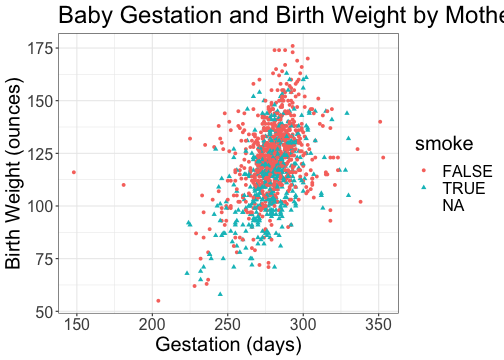
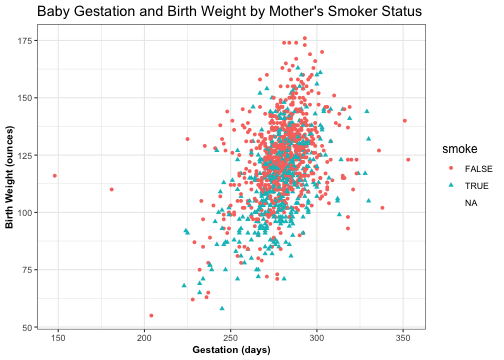
finish updating week 1 for zoey lecture

diff --git a/week01/Lab-05a-confint.html b/week01/Lab-05a-confint.html
@@ -3,8 +3,8 @@
   <head>
     <title>Confidence Interval and Hypothesis Testing</title>
     <meta charset="utf-8" />
-    <meta name="author" content="" />
-    <script src="libs/header-attrs-2.23/header-attrs.js"></script>
+    <meta name="author" content="Dr. Mine Dogucu" />
+    <script src="libs/header-attrs-2.27/header-attrs.js"></script>
     <link rel="stylesheet" href="slide-style.css" type="text/css" />
     <link rel="stylesheet" href="https://cdnjs.cloudflare.com/ajax/libs/font-awesome/5.15.3/css/all.min.css" type="text/css" />
   </head>
@@ -23,7 +23,7 @@ class: title-slide
 .right-panel[ 
 
 # Confidence Interval and Hypothesis Testing
-## 
+## Dr. Mine Dogucu
 
 
 ]
@@ -45,7 +45,7 @@ class: title-slide
 ## Load the Packages and Data
 
 
-```r
+``` r
 library(tidyverse)
 df &lt;- read.csv("../data/Alzheimer_data.csv")
 ```
@@ -55,7 +55,7 @@ df &lt;- read.csv("../data/Alzheimer_data.csv")
 ## Simulated Data
 
 
-```r
+``` r
 set.seed(0)
 norm_size &lt;- 100
 norm_random &lt;- rnorm(n = norm_size, mean = 10, sd = 2)
@@ -72,7 +72,7 @@ summary(norm_random)
 ## Confidence Interval
 
 
-```r
+``` r
 t_test_result &lt;- t.test(x = norm_random)
 t_test_result$conf.int
 ```
@@ -89,7 +89,7 @@ t_test_result$conf.int
 
 We can lower our confidence level, which leads to a narrower interval:
 
-```r
+``` r
 t_test_result &lt;- 
   t.test(x = norm_random, conf.level = 0.9)
 t_test_result$conf.int
@@ -107,7 +107,7 @@ t_test_result$conf.int
 
 To have a higher confidence level, we need a broader interval:
 
-```r
+``` r
 t_test_result &lt;- 
   t.test(x = norm_random, conf.level = 0.99)
 t_test_result$conf.int
@@ -125,7 +125,7 @@ t_test_result$conf.int
 ## Hypothesis Testing
 
 
-```r
+``` r
 summary(norm_random)
 ```
 
@@ -136,7 +136,7 @@ summary(norm_random)
 
 `\(H_0:\mu=10\)` vs. `\(H_A:\mu\neq10\)`
 
-```r
+``` r
 t.test(x = norm_random, mu = 10)$p.value
 ```
 
@@ -150,7 +150,7 @@ t.test(x = norm_random, mu = 10)$p.value
 
 `\(H_0:\mu=10\)` vs. `\(H_A:\mu&gt;10\)`
 
-```r
+``` r
 t.test(x = norm_random, mu = 10, 
        alternative = "greater")$p.value
 ```
@@ -162,7 +162,7 @@ t.test(x = norm_random, mu = 10,
 `\(H_0:\mu=9\)` vs. `\(H_A:\mu&gt;9\)`
 
 
-```r
+``` r
 t.test(x = norm_random, mu = 9, 
        alternative = "greater")$p.value
 ```
@@ -178,7 +178,7 @@ t.test(x = norm_random, mu = 9,
 Try to get a 90 percent confidence interval for the population mean of age among AD subjects.
 
 
-```r
+``` r
 summary(df$age)
 ```
 
@@ -194,7 +194,7 @@ summary(df$age)
 Try to get a 90 percent confidence interval for the population mean of age among AD subjects.
 
 
-```r
+``` r
 t_test_age &lt;- t.test(df$age, conf.level = 0.9)
 t_test_age$conf.int
 ```
@@ -214,7 +214,7 @@ Test whether the population mean of age is 70 or greater than 70 and get the p-v
 `\(H_0:\mu=70\)` vs. `\(H_A:\mu&gt;70\)`
 
 
-```r
+``` r
 summary(df$age)
 ```
 
@@ -232,7 +232,7 @@ Test whether the population mean of age is 70 or greater than 70 and get the p-v
 `\(H_0:\mu=70\)` vs. `\(H_A:\mu&gt;70\)`
 
 
-```r
+``` r
 t_test_age &lt;- t.test(df$age, mu = 70, alternative = "greater")
 round(t_test_age$p.value, 4)
 ```
@@ -248,7 +248,7 @@ round(t_test_age$p.value, 4)
 Simulated data
 
 
-```r
+``` r
 set.seed(0)
 bern_size &lt;- 100
 bern_random &lt;- rbinom(bern_size, 1, 0.3)
@@ -259,7 +259,7 @@ head(bern_random, 10)
 ##  [1] 1 0 0 0 1 0 1 1 0 0
 ```
 
-```r
+``` r
 success_counts &lt;- sum(bern_random)
 success_counts
 ```
@@ -273,7 +273,7 @@ success_counts
 ## Confidence Interval for Population Proportion
 
 
-```r
+``` r
 prop_test_result &lt;-
   prop.test(x = success_counts, 
             n = bern_size)
@@ -293,7 +293,7 @@ prop_test_result$conf.int
 `\(H_0:p=0.3\)` vs. `\(H_A:p\neq0.3\)`
 
 
-```r
+``` r
 prop_test_result &lt;-
   prop.test(x = success_counts, 
             n = bern_size, 
@@ -309,7 +309,7 @@ prop_test_result$p.value
 ## Real Data Practice (brain volume: naccicv)
 
 
-```r
+``` r
 success_counts_naccicv &lt;- 
   df %&gt;%
   filter(naccicv &gt; 1300 &amp; naccicv &lt; 1600) %&gt;%
@@ -322,7 +322,7 @@ success_counts_naccicv
 ## [1] 1811
 ```
 
-```r
+``` r
 bern_size_naccicv
 ```
 
@@ -341,7 +341,7 @@ bern_size_naccicv
 ---
 
 
-```r
+``` r
 prop_test_result_naccicv &lt;-
   prop.test(x = success_counts_naccicv, 
             n = bern_size_naccicv, 
@@ -356,7 +356,7 @@ prop_test_result_naccicv$conf.int
 ## [1] 0.95
 ```
 
-```r
+``` r
 prop_test_result_naccicv$p.value
 ```
 
@@ -383,7 +383,7 @@ We can examine whether the average blood pressure is different between male and 
 `\(H_0:\mu_M=\mu_F\)` vs. `\(H_A:\mu_M \neq \mu_F\)` 
 
 
-```r
+``` r
 t.test(bpsys ~ female, data = df)$p.value
 ```
 
@@ -407,7 +407,7 @@ Question: Are age and blood pressure correlated?
 `\(H_0:\)` They are NOT correlated. vs. `\(H_A:\)` They are correlated.
 
 
-```r
+``` r
 round(cor.test(df$age, df$bpsys)$p.value, 4)
 ```
 
@@ -418,7 +418,7 @@ round(cor.test(df$age, df$bpsys)$p.value, 4)
 `\(H_0:\)` They are NOT correlated. vs. `\(H_A:\)` They are positively correlated.
 
 
-```r
+``` r
 round(cor.test(df$age, df$bpsys, 
                alternative = "greater")$p.value, 4)
 ```
@@ -435,7 +435,7 @@ round(cor.test(df$age, df$bpsys,
 Question: Are gender and disease status associated with each other?
 
 
-```r
+``` r
 contingency_table &lt;- table(df$female, df$diagnosis)
 contingency_table
 ```
@@ -454,7 +454,7 @@ contingency_table
 `\(H_0:\)` They are independent vs. `\(H_A:\)` They are NOT independent.
 
 
-```r
+``` r
 chisq.test(contingency_table)
 ```
 

diff --git a/week01/Lab-04b-improve-dataviz.html b/week01/Lab-04b-improve-dataviz.html
@@ -4,9 +4,9 @@
     <title>Improving Data Visualizations</title>
     <meta charset="utf-8" />
     <meta name="author" content="Dr. Mine Dogucu" />
-    <script src="libs/header-attrs-2.23/header-attrs.js"></script>
-    <link href="libs/panelset-0.2.6/panelset.css" rel="stylesheet" />
-    <script src="libs/panelset-0.2.6/panelset.js"></script>
+    <script src="libs/header-attrs-2.27/header-attrs.js"></script>
+    <link href="libs/panelset-0.3.0/panelset.css" rel="stylesheet" />
+    <script src="libs/panelset-0.3.0/panelset.js"></script>
     <link rel="stylesheet" href="slide-style.css" type="text/css" />
   </head>
   <body>
@@ -54,7 +54,7 @@ class: middle
 .panel[
 .panel-name[R]
 
-```r
+``` r
 ggplot(babies,
        aes(x = gestation,
            y = bwt,
@@ -96,7 +96,7 @@ class: middle
 .panel[
 .panel-name[R]
 
-```r
+``` r
 ggplot(babies,
        aes(x = gestation,
            y = bwt,
@@ -120,7 +120,7 @@ ggplot(babies,
 
 .left-panel[
 
-```r
+``` r
 ggplot(babies,
        aes(x = gestation,
            y = bwt,
@@ -202,7 +202,7 @@ class: middle
 .left-panel[
 
 
-```r
+``` r
 ggplot(babies,
        aes(x = gestation,
            y = bwt,
@@ -213,7 +213,10 @@ ggplot(babies,
        y = "Birth Weight (ounces)", 
        title = "Baby Gestation and Birth Weight by Mother's Smoker Status") +
   theme_bw() +
-* theme(text = element_text(size=20))
+  theme(title = 
+          element_text(size = 12),
+        axis.title = 
+          element_text(size = 10,face="bold"))
 ```
 
 ]
@@ -229,7 +232,7 @@ ggplot(babies,
 class: middle
 
 
-```r
+``` r
 ?theme
 ```
 
@@ -243,7 +246,7 @@ class: middle
 .left-panel[
 
 
-```r
+``` r
 ggplot(babies,
        aes(x = gestation,
            y = bwt,
@@ -267,7 +270,7 @@ class: middle
 .left-panel[
 
 
-```r
+``` r
 ggplot(babies,
        aes(x = gestation,
            y = bwt,
